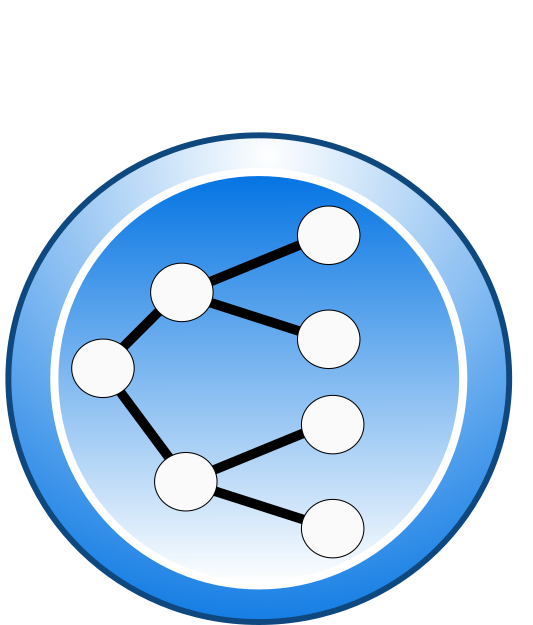
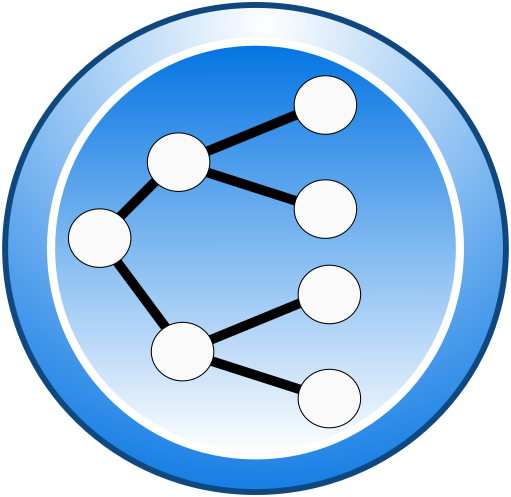
and one more button block fixed

diff --git a/resources_icons.py b/resources_icons.py
@@ -30,7 +30,7 @@ ICONS["back"] = "back_button_hap.png"
 ICONS["new"] = "new_button_hap.png"
 ICONS["compile"] = "compile_button_hap.png"
 ICONS["dot_graph"] = "dot_graph_button_hap.png"
-ICONS["save"] = "save_button.png"
+ICONS["save"] = "save_button_hap.png"
 ICONS["port"] = "port_button_hap.png"
 ICONS["dependent_variable"] = "dependent_new_button.svg"
 
